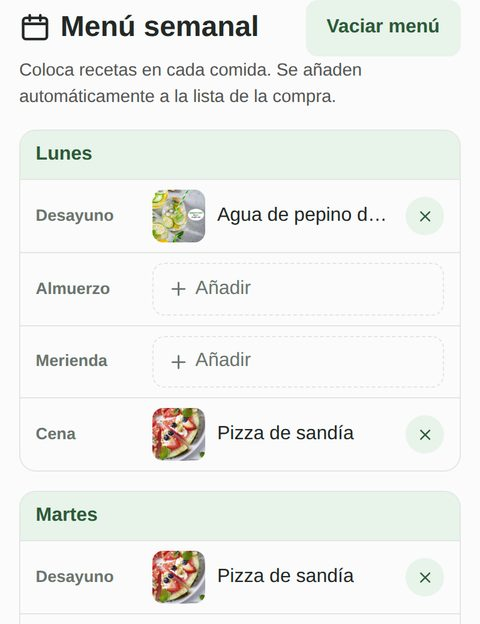
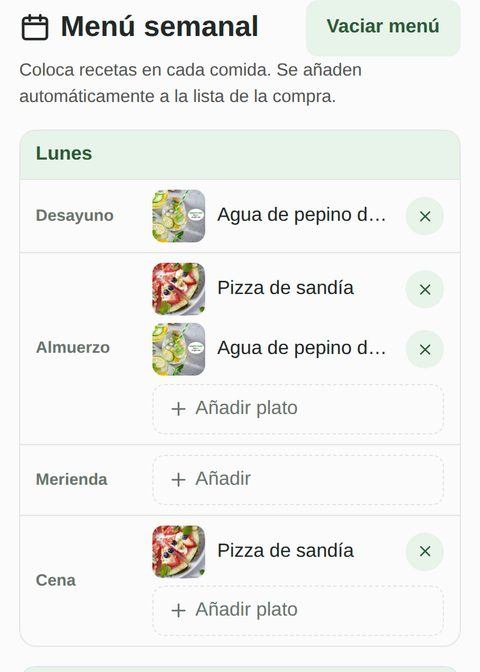
sync from src/site

diff --git a/docs/recetario/app.js b/docs/recetario/app.js
@@ -14,6 +14,9 @@
   // varias celdas); las celdas vacías son null.
   const DIAS = ["lunes", "martes", "miercoles", "jueves", "viernes", "sabado", "domingo"];
   const COMIDAS = ["desayuno", "almuerzo", "merienda", "cena"];
+  // Nº máximo de platos por comida: almuerzo y cena admiten hasta 3; desayuno y
+  // merienda, 1. Cada celda del menú es un array de ids (longitud ≤ este máximo).
+  const MAX_PLATOS = { desayuno: 1, almuerzo: 3, merienda: 1, cena: 3 };
   const DIAS_NOMBRE = {
     lunes: "Lunes", martes: "Martes", miercoles: "Miércoles", jueves: "Jueves",
     viernes: "Viernes", sabado: "Sábado", domingo: "Domingo",
@@ -121,8 +124,11 @@
     DIAS.forEach((d) => {
       menu[d] = {};
       COMIDAS.forEach((c) => {
-        const id = guardado[d] && guardado[d][c];
-        menu[d][c] = id || null;
+        const v = guardado[d] && guardado[d][c];
+        // Cada celda es un array de ids. Migra el formato viejo (id|null → [id]|[])
+        // y recorta al máximo de platos de esa comida.
+        let platos = Array.isArray(v) ? v.filter(Boolean) : (v ? [v] : []);
+        menu[d][c] = platos.slice(0, MAX_PLATOS[c]);
       });
     });
     return menu;
@@ -1071,7 +1077,8 @@
           <ul>
             <li>Desde el menú <strong>☰ → «Menú semanal»</strong> tienes una rejilla de lunes a domingo
               con desayuno, almuerzo, merienda y cena. Pulsa <strong>«+ Añadir»</strong> en cualquier
-              comida para elegir una receta (puedes dejar comidas en blanco).</li>
+              comida para elegir una receta (puedes dejar comidas en blanco). El <strong>almuerzo y la
+              cena admiten hasta 3 platos</strong>; el desayuno y la merienda, uno.</li>
             <li>También puedes asignar una receta al menú desde su ficha, con el botón
               <strong>«Añadir al menú semanal»</strong>.</li>
             <li>Las recetas del menú se <strong>añaden automáticamente a la lista de la compra</strong>.
@@ -1098,22 +1105,28 @@
   }
 
   // --- Vista: menú semanal ---
-  // HTML de una celda (día × comida): la receta asignada o un botón "+ Añadir".
+  // HTML de una celda (día × comida): lista de platos (cada uno con ✕) y, si caben
+  // más (almuerzo/cena admiten hasta 3), un botón "+ Añadir".
   function celdaMenuHtml(dia, comida) {
-    const id = menuSemanal[dia] && menuSemanal[dia][comida];
-    const r = id ? porId[id] : null;
-    if (!r) {
-      return `<button class="celda-menu vacia" data-dia="${dia}" data-comida="${comida}">
-                ${ico("plus")}<span>Añadir</span>
-              </button>`;
-    }
-    return `<div class="celda-menu llena" data-dia="${dia}" data-comida="${comida}">
-              <button class="celda-receta" data-id="${escapar(r.id)}">
-                ${mediaHtml(r, "celda-img", "celda-img celda-ph")}
-                <span class="celda-nombre">${escapar(r.nombre)}</span>
-              </button>
-              <button class="celda-quitar" data-dia="${dia}" data-comida="${comida}" aria-label="Quitar del menú">${ico("x")}</button>
-            </div>`;
+    const platos = (menuSemanal[dia] && menuSemanal[dia][comida]) || [];
+    const filas = platos.map((id, n) => {
+      const r = porId[id];
+      const nombre = r ? r.nombre : "(receta no encontrada)";
+      return `<div class="celda-plato">
+                <button class="celda-receta" data-id="${escapar(id)}">
+                  ${r ? mediaHtml(r, "celda-img", "celda-img celda-ph") : ""}
+                  <span class="celda-nombre">${escapar(nombre)}</span>
+                </button>
+                <button class="celda-quitar" data-dia="${dia}" data-comida="${comida}" data-plato="${n}" aria-label="Quitar del menú">${ico("x")}</button>
+              </div>`;
+    }).join("");
+    const puedeMas = platos.length < MAX_PLATOS[comida];
+    const botonAnadir = puedeMas
+      ? `<button class="celda-anadir" data-dia="${dia}" data-comida="${comida}">
+           ${ico("plus")}<span>${platos.length ? "Añadir plato" : "Añadir"}</span>
+         </button>`
+      : "";
+    return `<div class="celda-menu ${platos.length ? "llena" : "vacia"}">${filas}${botonAnadir}</div>`;
   }
 
   function verMenuSemanal() {
@@ -1141,13 +1154,13 @@
 
     // Delegación de eventos en la rejilla.
     vistaMenu.querySelector(".semana").addEventListener("click", (e) => {
-      const vacia = e.target.closest(".celda-menu.vacia");
+      const anadir = e.target.closest(".celda-anadir");
       const quitar = e.target.closest(".celda-quitar");
       const receta = e.target.closest(".celda-receta");
-      if (vacia) {
-        elegirRecetaParaCelda(vacia.dataset.dia, vacia.dataset.comida);
+      if (anadir) {
+        elegirRecetaParaCelda(anadir.dataset.dia, anadir.dataset.comida);
       } else if (quitar) {
-        quitarDeMenu(quitar.dataset.dia, quitar.dataset.comida);
+        quitarDeMenu(quitar.dataset.dia, quitar.dataset.comida, +quitar.dataset.plato);
       } else if (receta) {
         verDetalle(receta.dataset.id);
       }
@@ -1158,17 +1171,23 @@
     cambiarVista(vistaMenu);
   }
 
-  // Asigna una receta a una celda del menú (y la vuelca a la selección).
+  // Añade un plato a una celda (sin pasarse del máximo) y lo vuelca a la selección.
   function asignarAMenu(dia, comida, id) {
-    menuSemanal[dia][comida] = id;
+    const platos = menuSemanal[dia][comida];
+    if (platos.length >= MAX_PLATOS[comida]) {
+      alert(`Esta comida admite como máximo ${MAX_PLATOS[comida]} plato${MAX_PLATOS[comida] > 1 ? "s" : ""}.`);
+      return false;
+    }
+    platos.push(id);
     guardarMenu(menuSemanal);
     seleccion.add(id);
     guardarSeleccion();
     actualizarBarra();
+    return true;
   }
 
-  function quitarDeMenu(dia, comida) {
-    menuSemanal[dia][comida] = null;
+  function quitarDeMenu(dia, comida, indice) {
+    menuSemanal[dia][comida].splice(indice, 1);
     guardarMenu(menuSemanal);
     // No se quita de la selección automáticamente (el usuario la gestiona en la cesta).
     if (!vistaMenu.hidden) verMenuSemanal();
@@ -1178,7 +1197,7 @@
     const ids = idsEnMenu();
     if (!ids.length) { alert("El menú ya está vacío."); return; }
     if (!confirm("¿Vaciar todo el menú semanal?")) return;
-    DIAS.forEach((d) => COMIDAS.forEach((c) => (menuSemanal[d][c] = null)));
+    DIAS.forEach((d) => COMIDAS.forEach((c) => (menuSemanal[d][c] = [])));
     guardarMenu(menuSemanal);
     if (confirm("¿Quitar también esas recetas de la lista de la compra?")) {
       ids.forEach((id) => seleccion.delete(id));
@@ -1188,12 +1207,11 @@
     if (!vistaMenu.hidden) verMenuSemanal();
   }
 
-  // Ids únicos presentes en el menú (una receta puede estar en varias celdas).
+  // Ids únicos presentes en el menú (una receta puede estar en varias celdas/platos).
   function idsEnMenu() {
     const set = new Set();
     DIAS.forEach((d) => COMIDAS.forEach((c) => {
-      const id = menuSemanal[d][c];
-      if (id) set.add(id);
+      (menuSemanal[d][c] || []).forEach((id) => { if (id) set.add(id); });
     }));
     return [...set];
   }
@@ -1282,8 +1300,7 @@
     modal.querySelector("#md-aceptar").onclick = () => {
       const dia = modal.querySelector("#md-dia").value;
       const comida = modal.querySelector("#md-comida").value;
-      asignarAMenu(dia, comida, id);
-      cerrarModal();
+      if (asignarAMenu(dia, comida, id)) cerrarModal();   // si la comida está llena, sigue abierto
     };
   }
 

diff --git a/docs/recetario/styles.css b/docs/recetario/styles.css
@@ -495,15 +495,9 @@ a:hover { color: var(--verde-osc); }
   font-size: .85rem; font-weight: 600; color: var(--gris);
 }
 /* Celda: receta asignada o botón "+ Añadir". */
-.celda-menu { flex: 1; min-width: 0; }
-.celda-menu.vacia {
-  display: inline-flex; align-items: center; gap: .35rem;
-  padding: .55rem .7rem; width: 100%;
-  background: none; border: 1px dashed var(--borde); border-radius: 10px;
-  color: var(--gris); font: inherit; cursor: pointer;
-}
-.celda-menu.vacia:hover { border-color: var(--verde); color: var(--verde-osc); }
-.celda-menu.llena { display: flex; align-items: center; gap: .5rem; }
+/* La celda apila sus platos y, si caben más, el botón "+ Añadir". */
+.celda-menu { flex: 1; min-width: 0; display: flex; flex-direction: column; gap: .4rem; }
+.celda-plato { display: flex; align-items: center; gap: .5rem; }
 .celda-receta {
   flex: 1; min-width: 0; display: flex; align-items: center; gap: .6rem;
   background: none; border: none; padding: 0; font: inherit; cursor: pointer; text-align: left;
@@ -517,6 +511,13 @@ a:hover { color: var(--verde-osc); }
   background: var(--verde-claro); color: var(--verde-osc); cursor: pointer;
 }
 .celda-quitar:hover { background: #f3d6d6; color: #a33; }
+.celda-anadir {
+  display: inline-flex; align-items: center; gap: .35rem; width: 100%;
+  padding: .5rem .7rem;
+  background: none; border: 1px dashed var(--borde); border-radius: 10px;
+  color: var(--gris); font: inherit; cursor: pointer;
+}
+.celda-anadir:hover { border-color: var(--verde); color: var(--verde-osc); }
 
 /* Ancho (tablet/PC): los días en rejilla de columnas. */
 @media (min-width: 768px) {

diff --git a/docs/recetario/sw.js b/docs/recetario/sw.js
@@ -19,7 +19,7 @@
  * borran las cachés con versión antigua.
  */
 
-const CACHE = "recetario-v14";
+const CACHE = "recetario-v15";
 const CACHE_IMG = "recetario-img-v1";
 
 // Rutas relativas al scope del SW (funciona bajo cualquier subdirectorio).